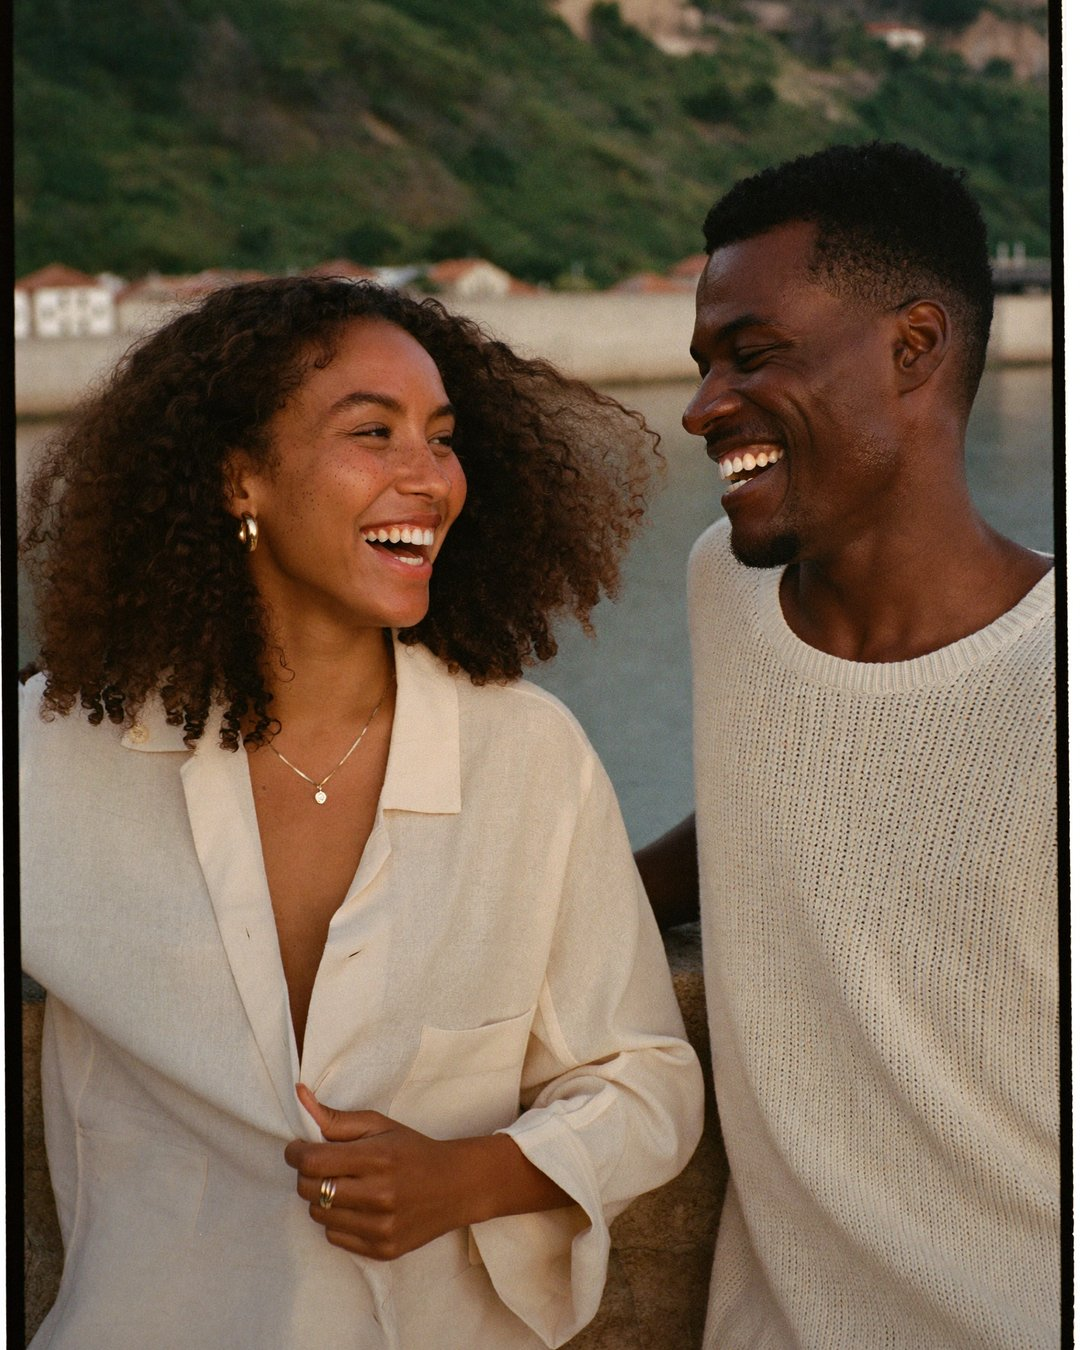
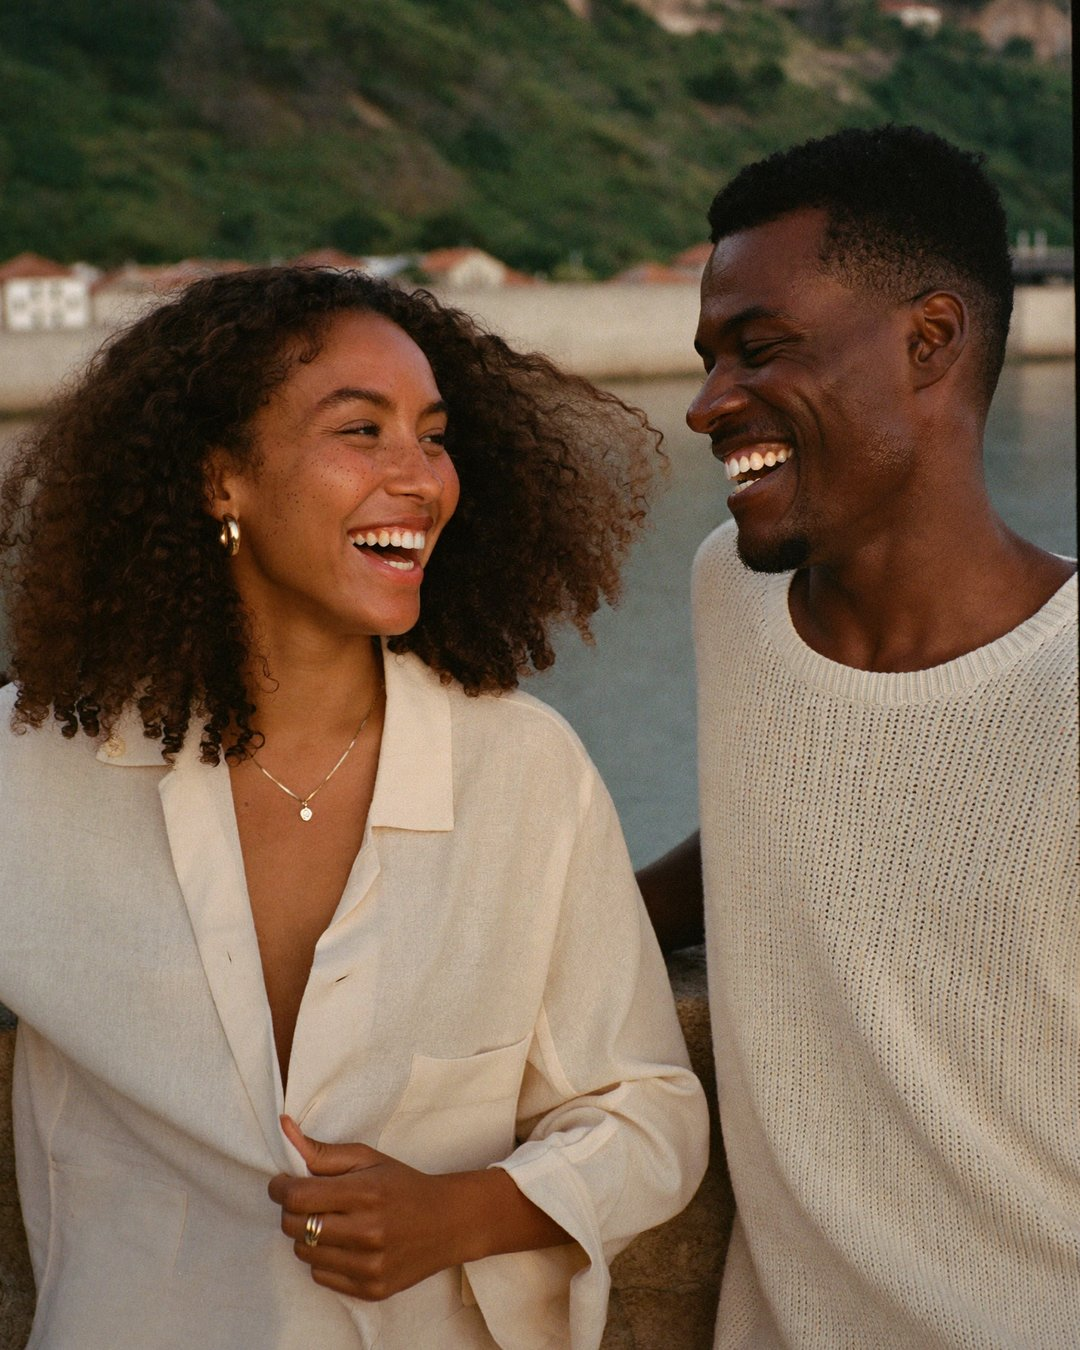
Topo sem a moldura de filme; o processamento também tira fios brancos à volta
Claude-Session: https://claude.ai/code/session_01H9RPMzqkaAEQeoA7jFUpe3

diff --git a/media/ferramentas/processar.py b/media/ferramentas/processar.py
@@ -28,8 +28,8 @@ def aparar_bordas(im, limite=55, maximo=0.12):
     g = im.convert("L")
     w, h = g.size
     def escura(caixa):
-        reg = g.crop(caixa).resize((1, 1), 0)
-        return reg.getpixel((0, 0)) < limite
+        v = g.crop(caixa).resize((1, 1), 0).getpixel((0, 0))
+        return v < limite or v > 250  # moldura preta ou fio branco puro à volta
     t = b = l = r = 0
     passo_v, passo_h = max(1, h // 400), max(1, w // 400)
     while t < h * maximo and escura((0, t, w, t + passo_v)): t += passo_v
